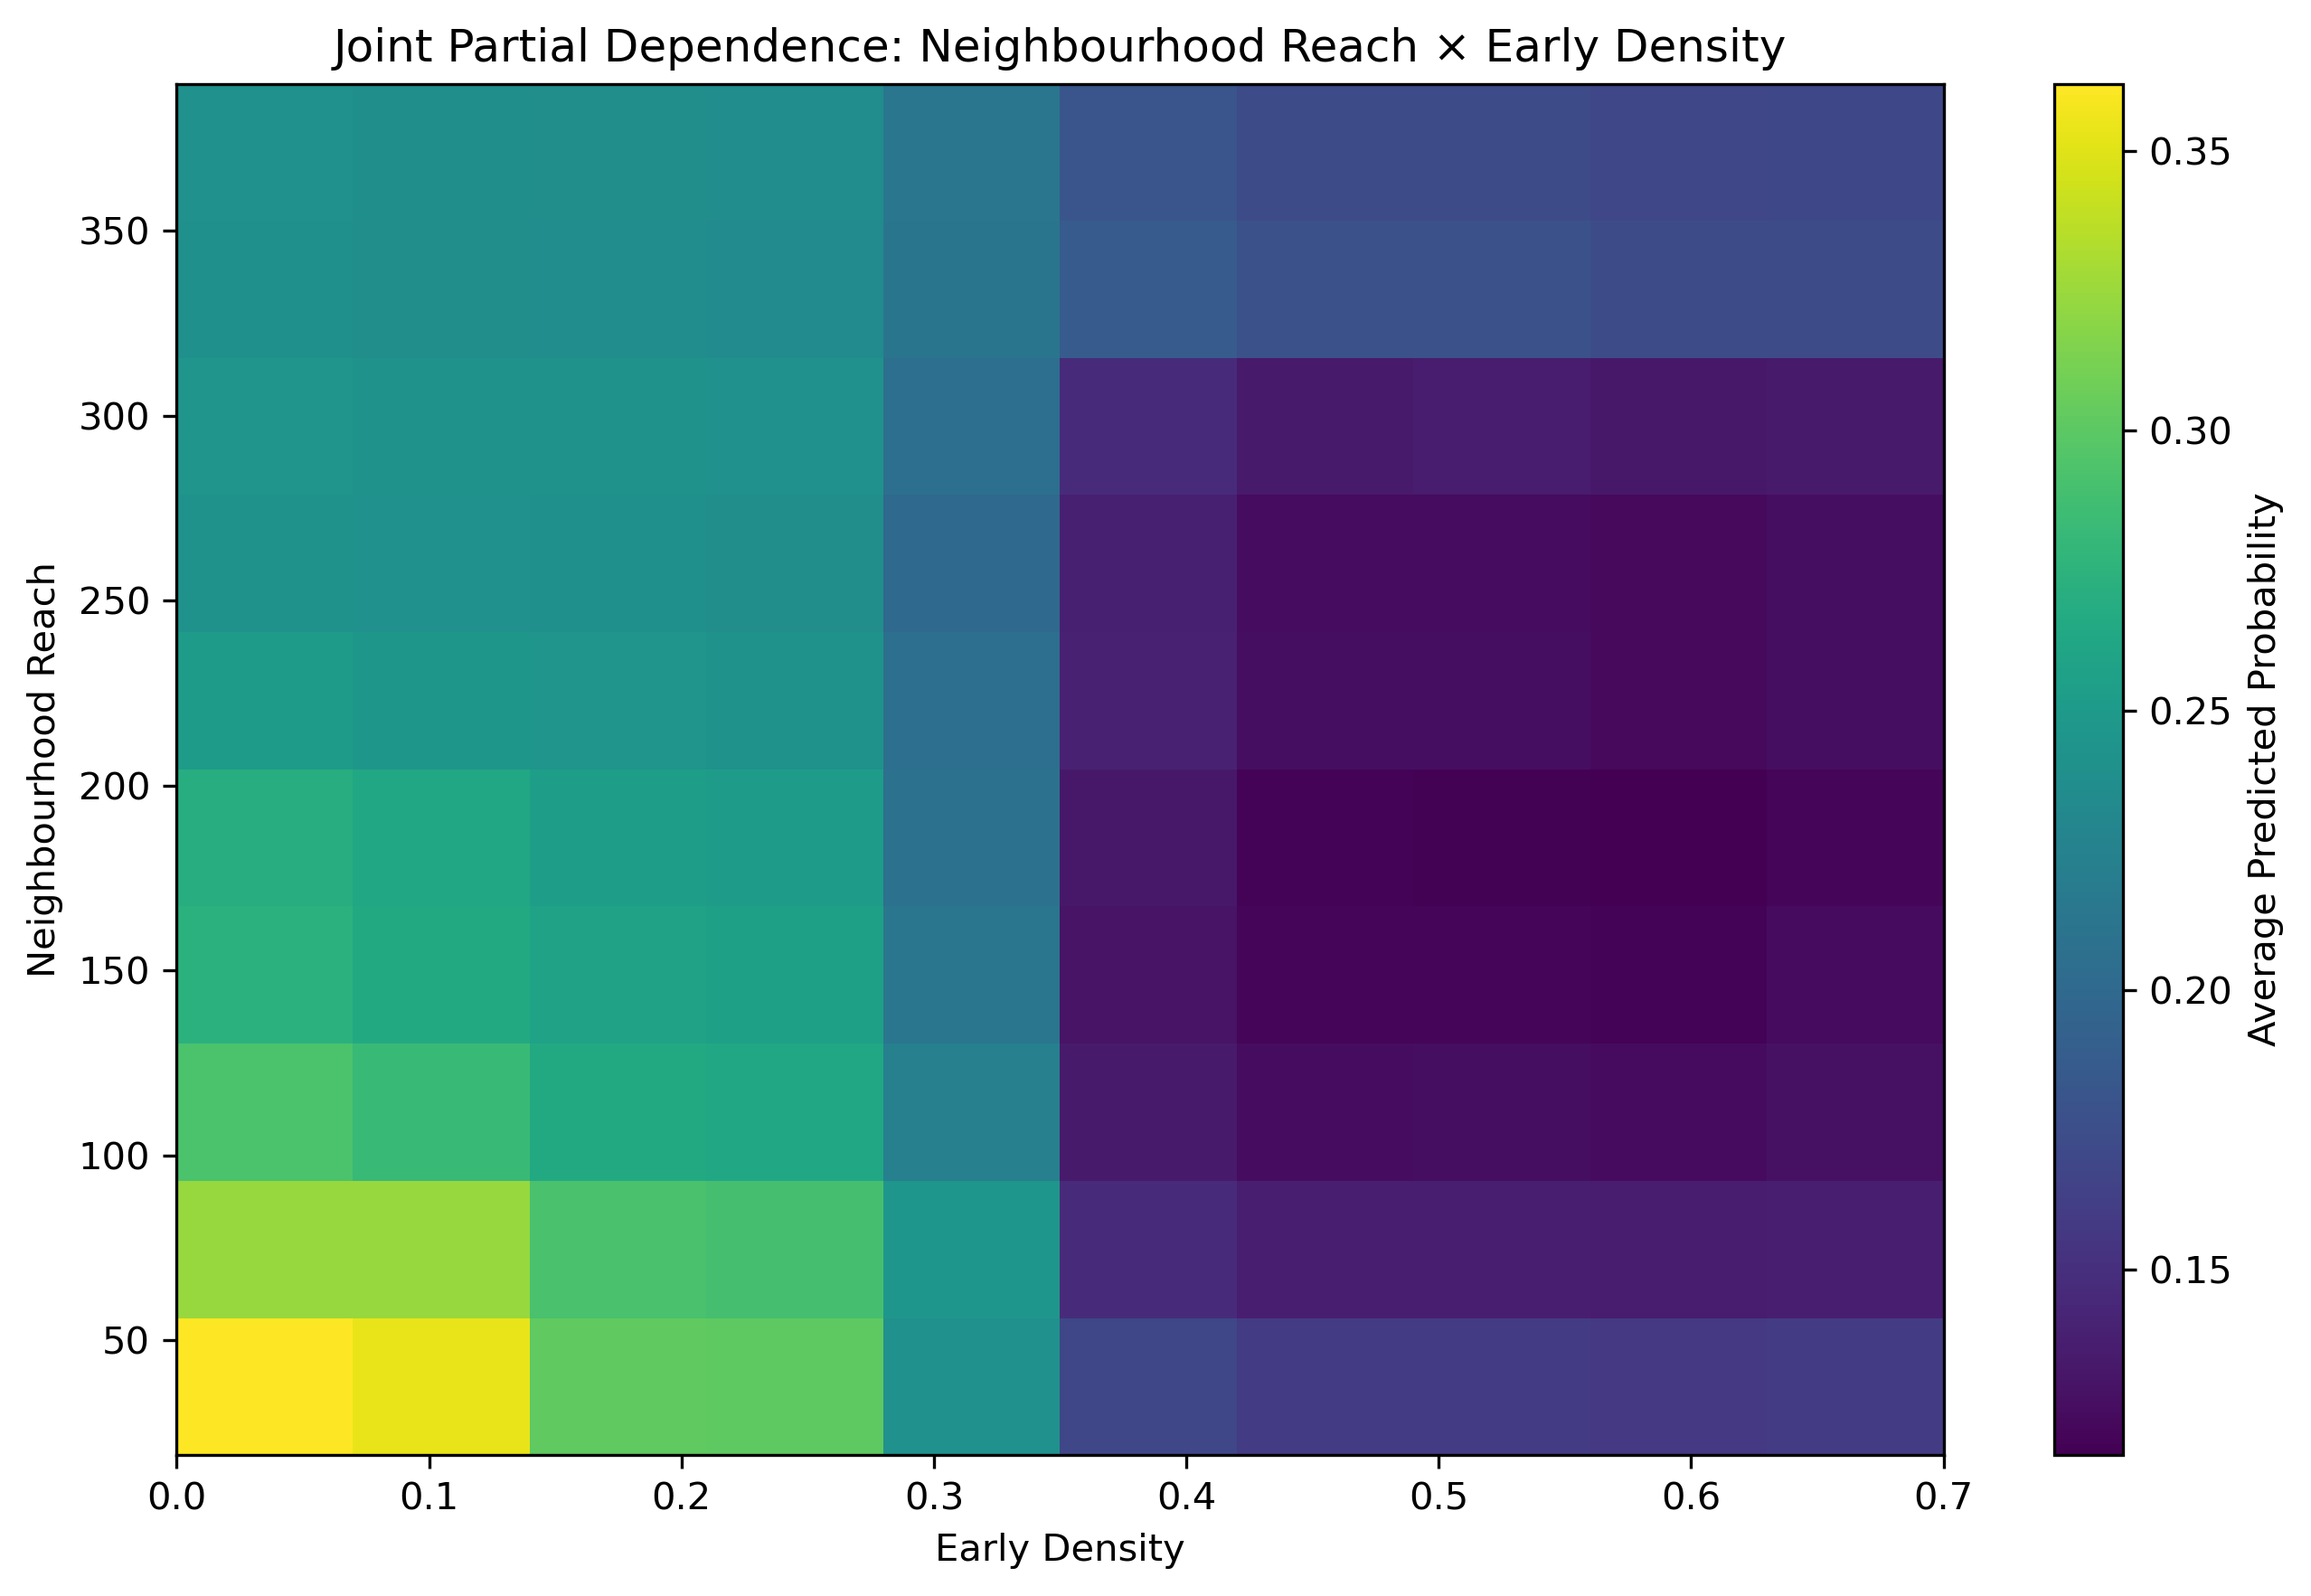
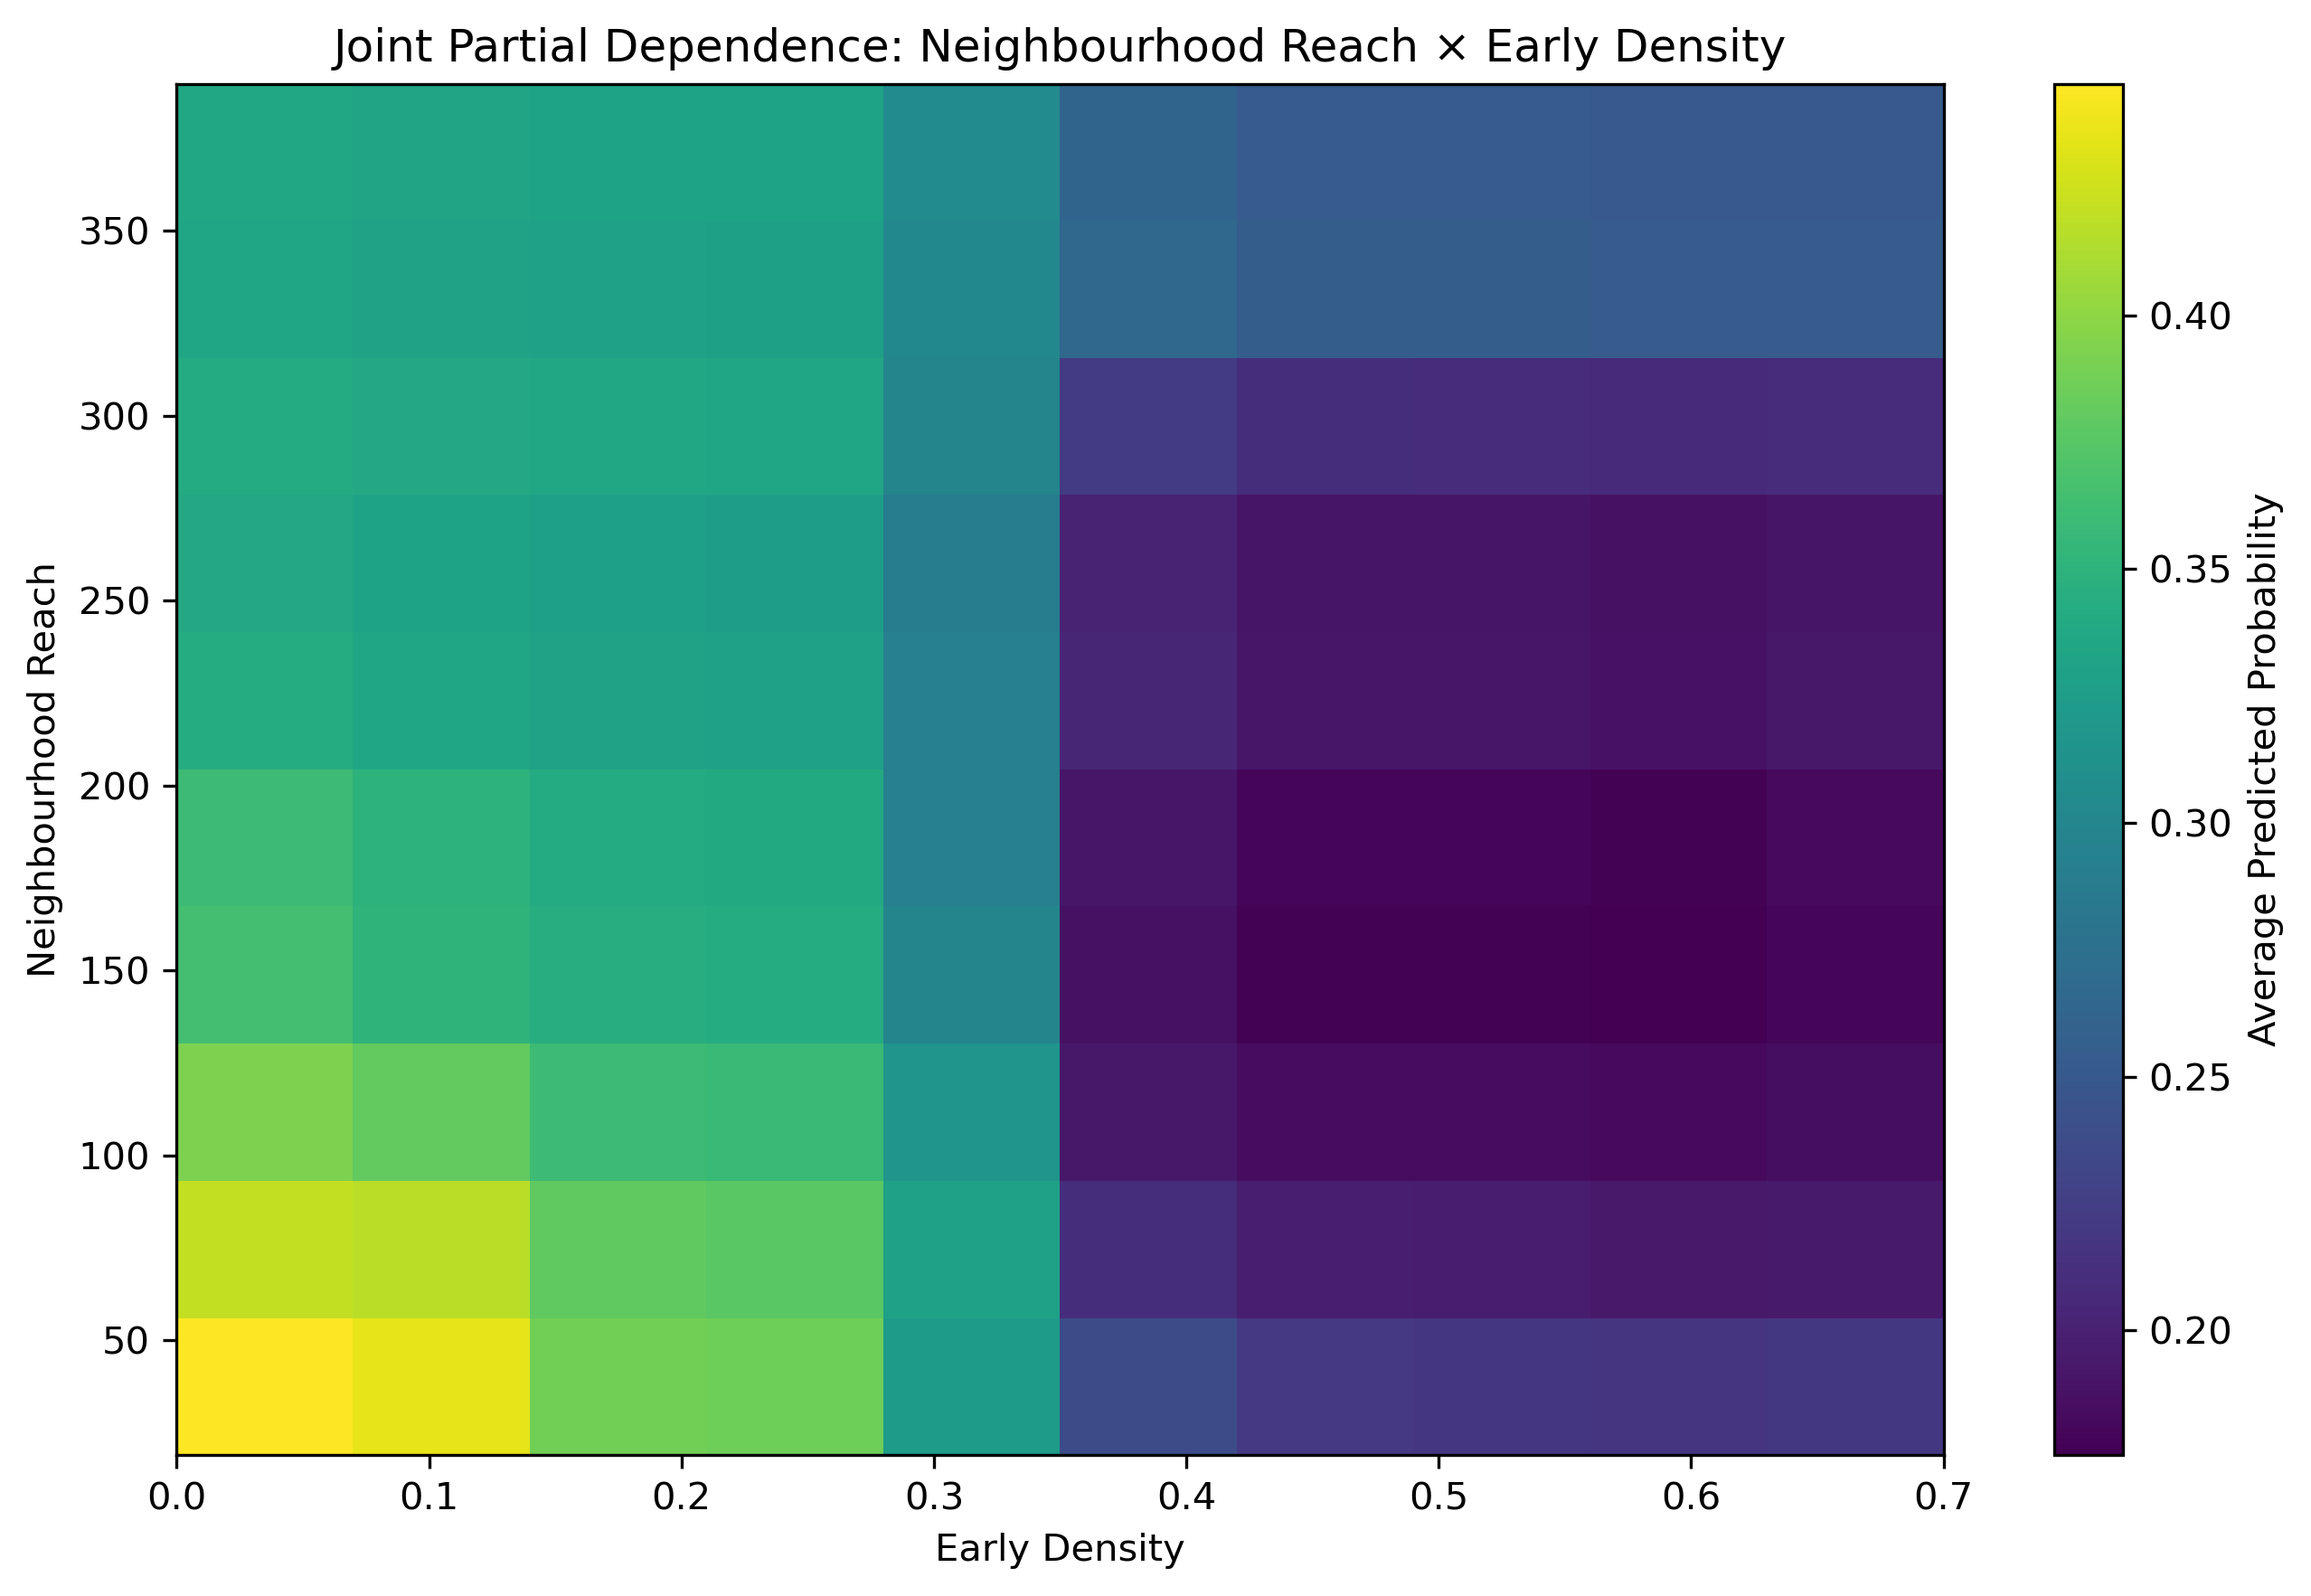
Fix explainability pipeline and regenerate figures

diff --git a/src/model_explainability.py b/src/model_explainability.py
@@ -611,10 +611,10 @@ def main():
         valid_df,
     )
 
-    X_train = train_df[FEATURES]
+    X_train = train_df[FEATURES].astype(float)
     y_train = train_df[TARGET]
 
-    X_valid = valid_df[FEATURES]
+    X_valid = valid_df[FEATURES].astype(float)
     y_valid = valid_df[TARGET]
 
     # --------------------------------------------------------
